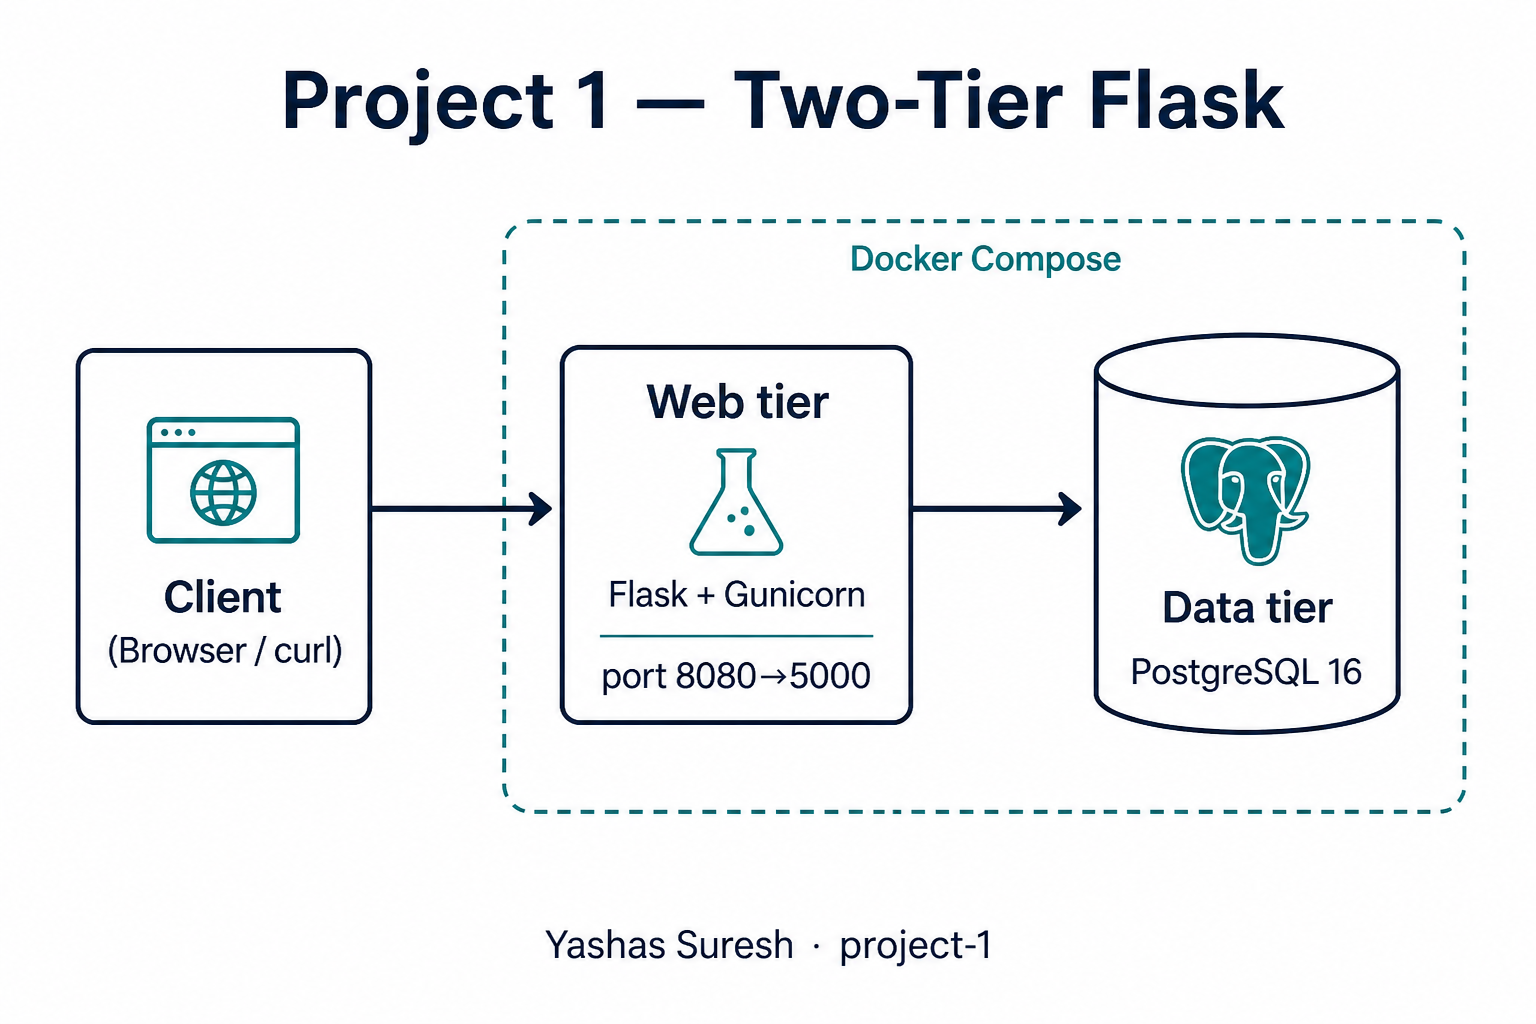
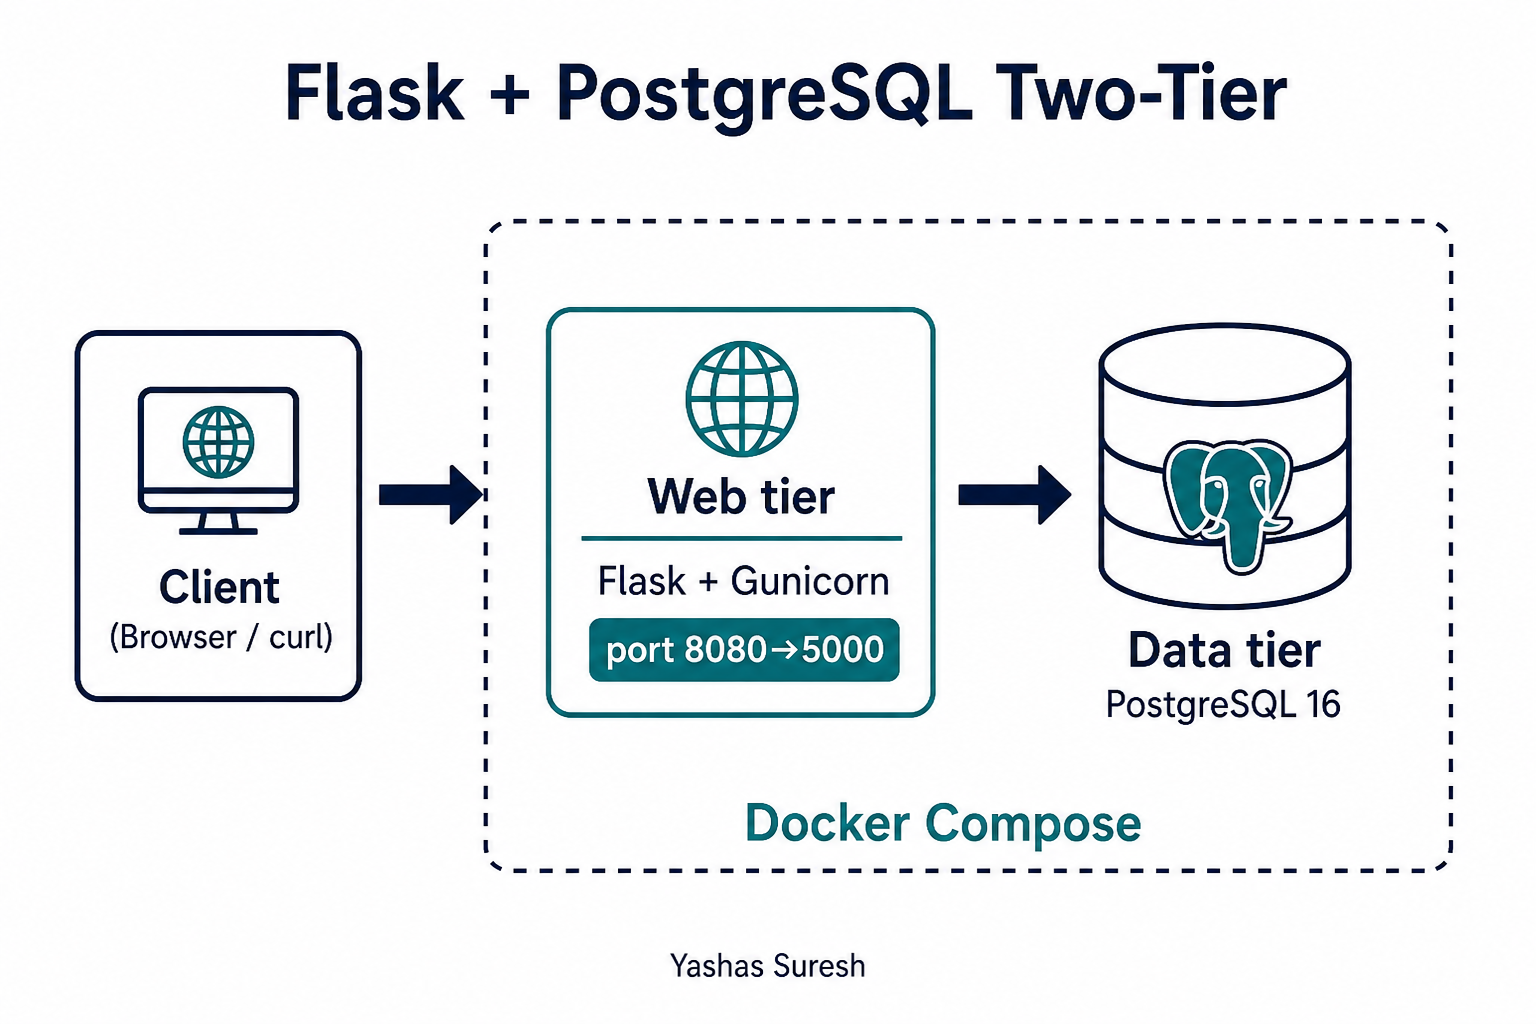
Rename project title to Flask + PostgreSQL Two-Tier.
Update README, app UI, and diagrams to match the new product name.

diff --git a/app/app.py b/app/app.py
@@ -1,5 +1,5 @@
 """
-Project 1 — Two-Tier Flask Application
+Flask + PostgreSQL Two-Tier
 Author: Yashas Suresh (https://github.com/yashassuresh775)
 Web tier (Flask) + data tier (PostgreSQL).
 """
@@ -70,7 +70,7 @@ def index():
 <html lang="en">
 <head>
   <meta charset="utf-8">
-  <title>Project 1 — Two-Tier Flask</title>
+  <title>Flask + PostgreSQL Two-Tier</title>
   <style>
     body { font-family: Georgia, serif; max-width: 40rem; margin: 3rem auto; padding: 0 1rem; color: #1a1a1a; }
     h1 { font-weight: 400; letter-spacing: -0.02em; }
@@ -79,7 +79,7 @@ def index():
   </style>
 </head>
 <body>
-  <h1>Project 1 — Two-Tier Flask</h1>
+  <h1>Flask + PostgreSQL Two-Tier</h1>
   <p>Flask web tier backed by PostgreSQL. Try <code>/api/health</code> and <code>/api/messages</code>.</p>
   <p>Author: <a href="https://github.com/yashassuresh775">Yashas Suresh</a></p>
 </body>

diff --git a/README.md b/README.md
@@ -1,4 +1,4 @@
-# Project 1 — Two-Tier Flask
+# Flask + PostgreSQL Two-Tier
 
 Original two-tier web application: **Flask** (web) + **PostgreSQL 16** (data).
 
@@ -97,7 +97,7 @@ Create a message:
 ```bash
 curl -s -X POST http://localhost:8080/api/messages \
   -H 'Content-Type: application/json' \
-  -d '{"text":"hello from Project 1"}'
+  -d '{"text":"hello from Flask + PostgreSQL Two-Tier"}'
 ```
 
 ## License
